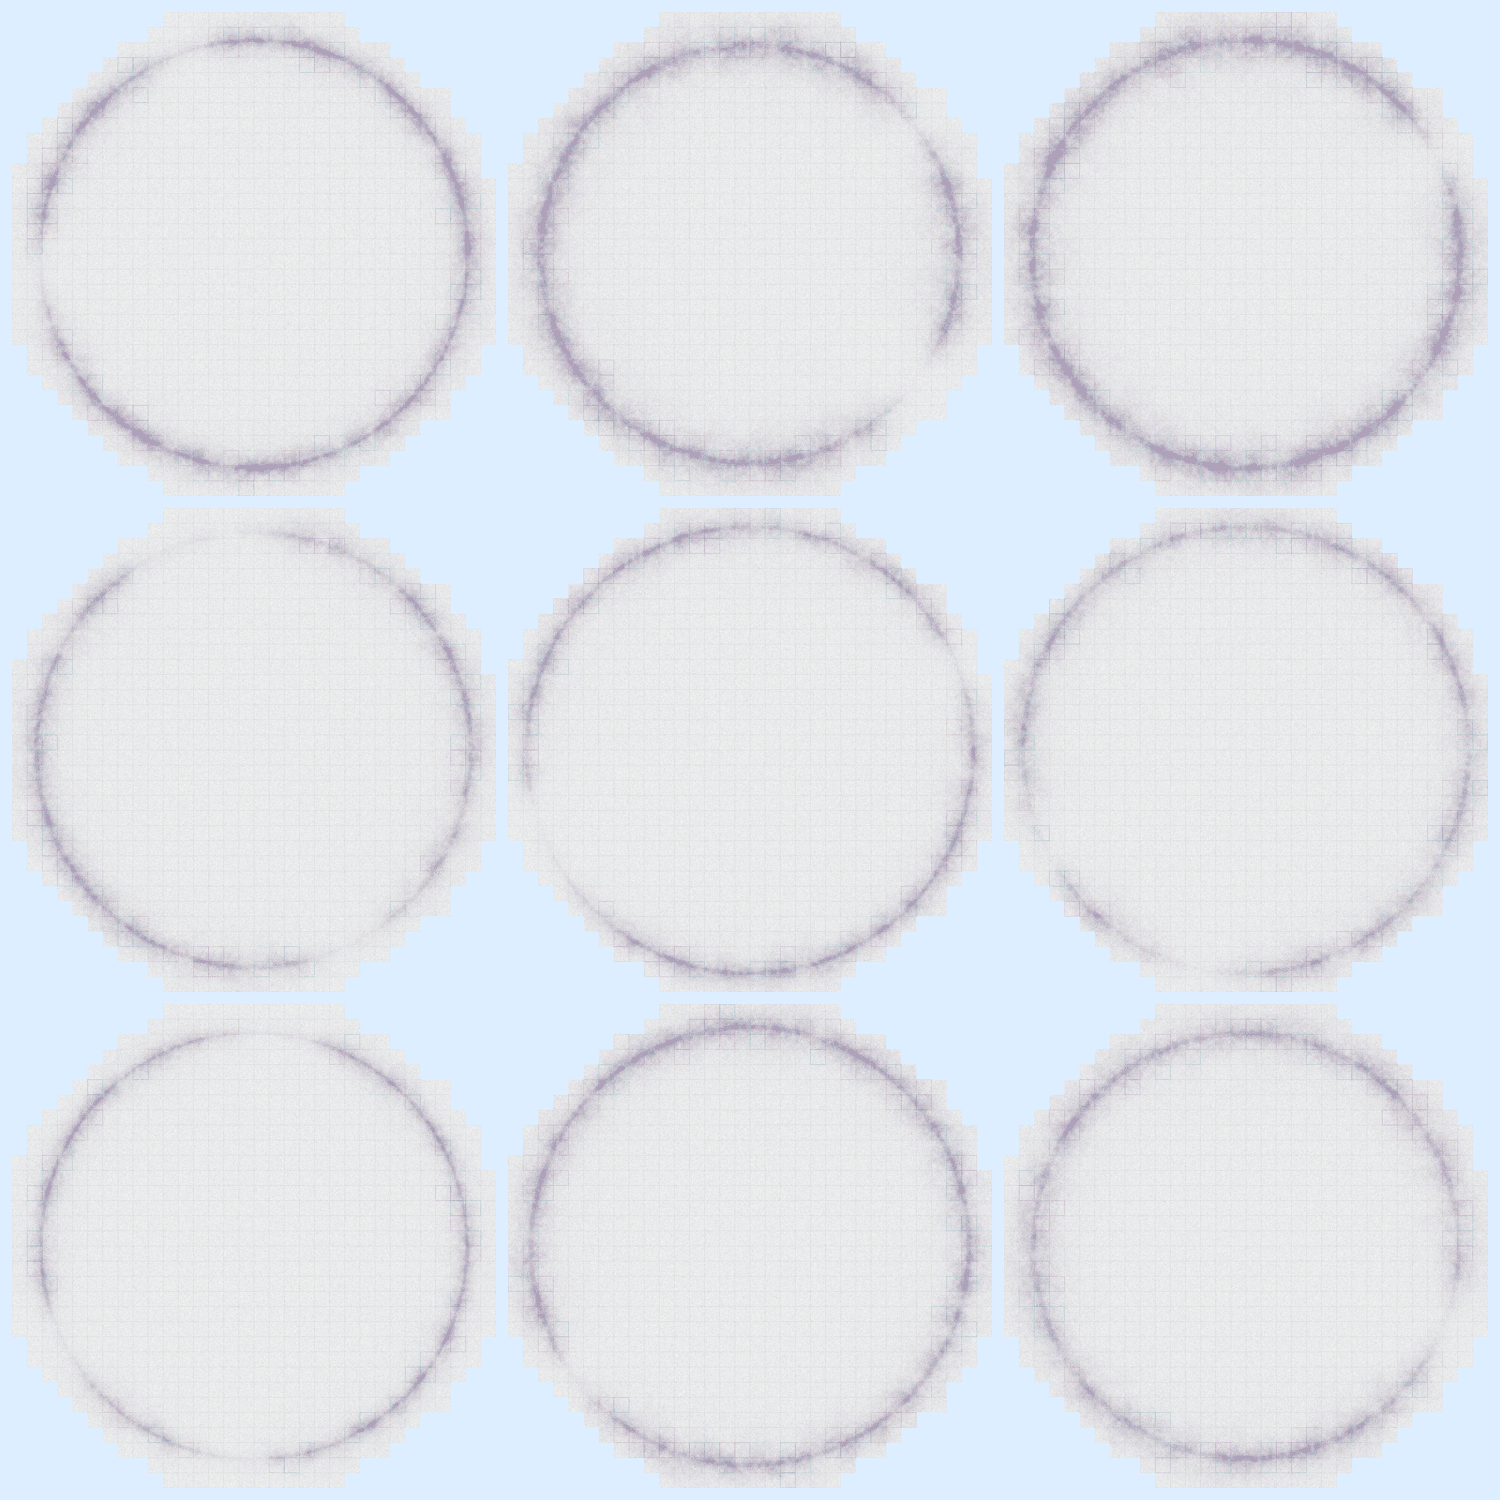
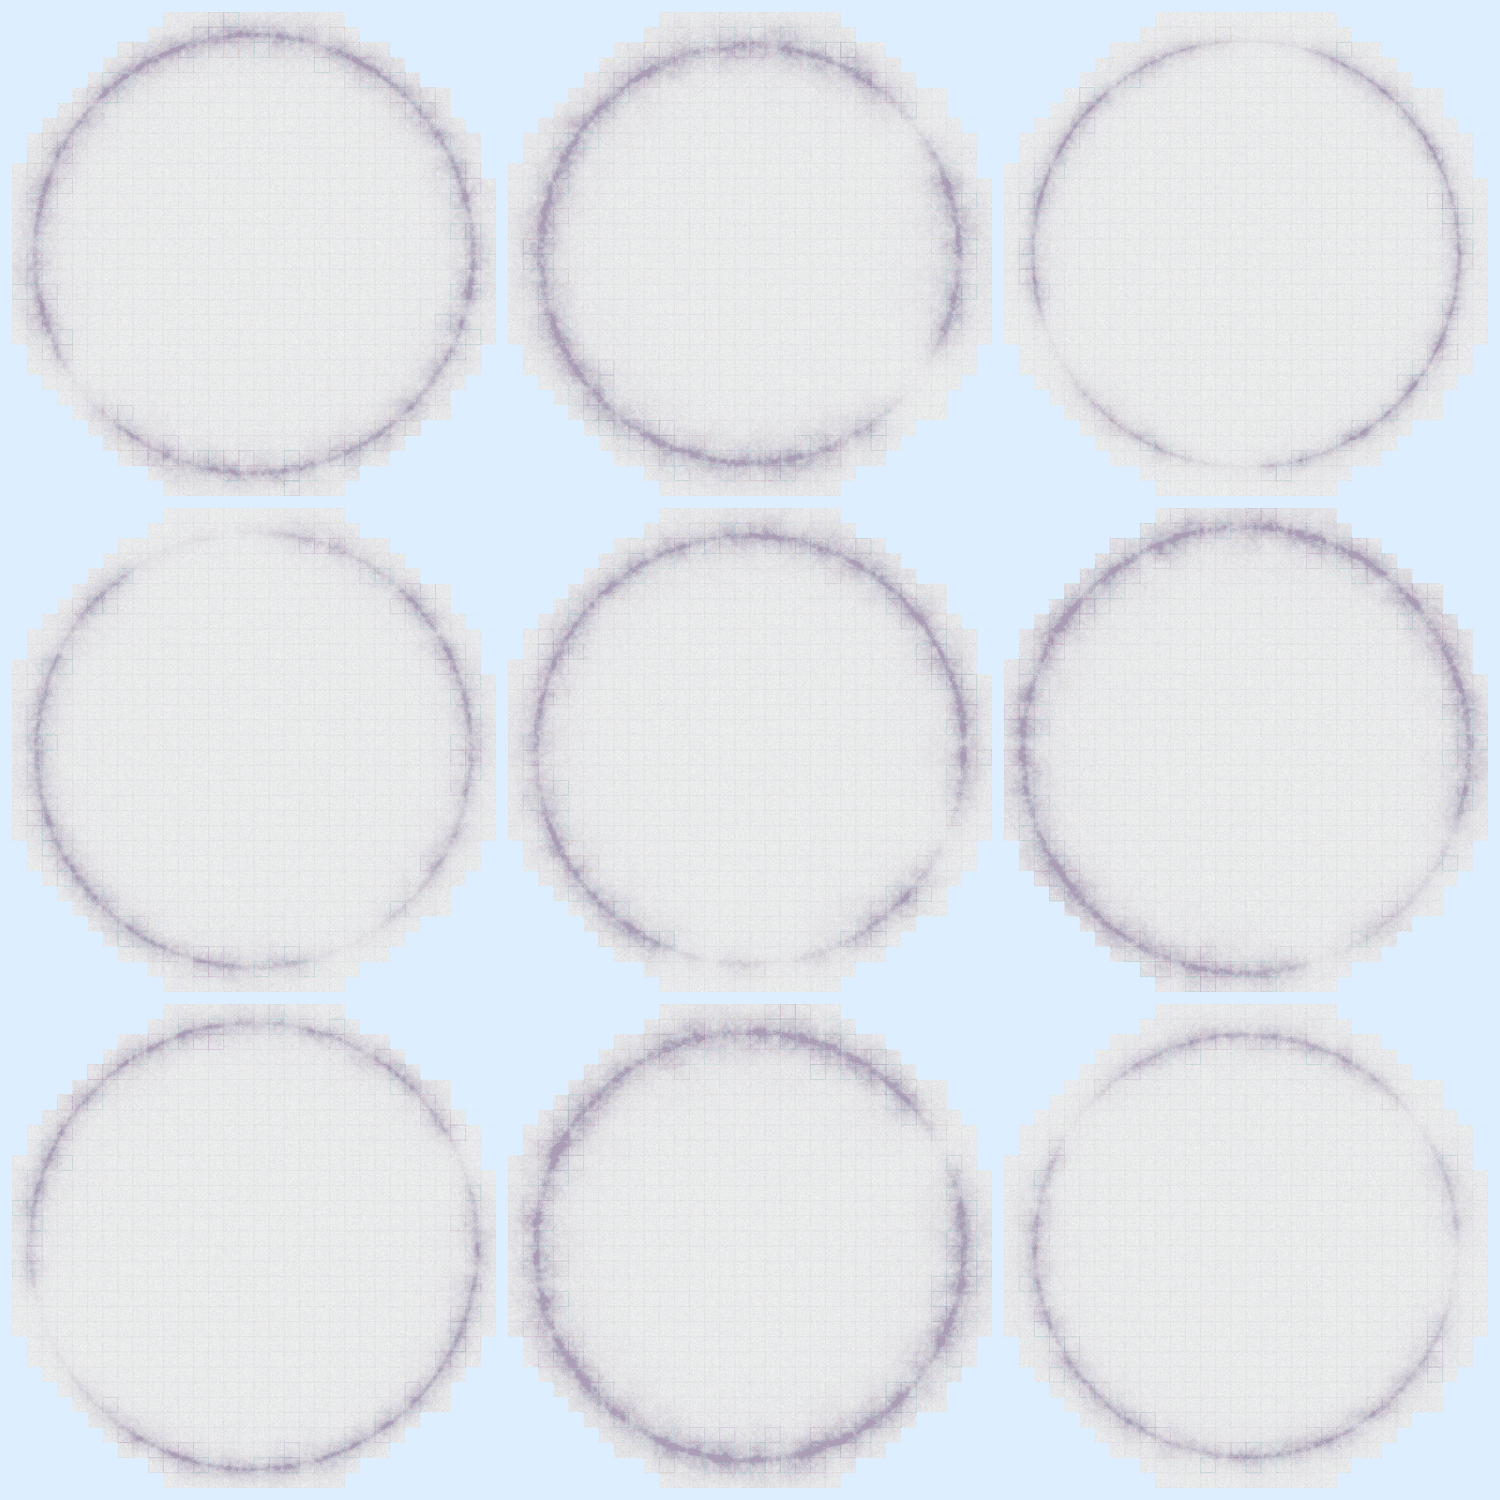
manager report: group composite — FPS sampling + ParallelScratches → Edge-Bottom_scratch_rot
- 64x64 high-freq fingerprint (mean-removed) farthest-point sampling 으로 9 wafer 다양성 max
- pair-distance: 8x8 0.0005 → 64x64 0.11 ~ 0.88 (100~1000x diversity)
- ParallelScratches cluster → Edge-Bottom_scratch_rot cluster (cluster_036, size 13)
- single wafer_02 도 같은 class 매칭

diff --git a/docs/paper/manager_report/REPORT.md b/docs/paper/manager_report/REPORT.md
@@ -68,7 +68,7 @@ wafer ──► CNN ──► 128-dim emb ──► HDBSCAN ──► group A, B
 <table>
 <tr>
 <td align="center" valign="top" width="33%"><img src="figs/wafer_01_CenterCircle.png" width="260" height="260"><br><b>CenterCircle</b><br>canvas pattern</td>
-<td align="center" valign="top" width="33%"><img src="figs/wafer_02_ParallelScratches.png" width="260" height="260"><br><b>ParallelScratches</b><br>canvas pattern</td>
+<td align="center" valign="top" width="33%"><img src="figs/wafer_02_EdgeBottom_scratch_rot.png" width="260" height="260"><br><b>Edge-Bottom_scratch_rot</b><br>site×chip object</td>
 <td align="center" valign="top" width="33%"><img src="figs/wafer_03_RingDots.png" width="260" height="260"><br><b>RingDots</b><br>canvas pattern</td>
 </tr>
 <tr>
@@ -78,7 +78,7 @@ wafer ──► CNN ──► 128-dim emb ──► HDBSCAN ──► group A, B
 </tr>
 </table>
 
-4 canvas (CenterCircle / ParallelScratches / RingDots / BrokenRing) + 2 site×chip (Center_fork / Edge-Ring_scratch). 학습 anchor = 42 defect class × 평균 30 + Normal 1000 = 2,146 wafer.
+3 canvas (CenterCircle / RingDots / BrokenRing) + 3 site×chip (Edge-Bottom_scratch_rot / Center_fork / Edge-Ring_scratch). 학습 anchor = 42 defect class × 평균 30 + Normal 1000 = 2,146 wafer.
 
 ### 합성 방식 (sister repo `known-cnn/dist_apply/_sample_gen.py`)
 
@@ -98,7 +98,7 @@ wafer ──► CNN ──► 128-dim emb ──► HDBSCAN ──► group A, B
 <table>
 <tr>
 <td align="center" valign="top" width="50%"><img src="figs/group_01_CenterCircle.png" width="380" height="380"><br><b>CenterCircle group</b><br>41 wafer 자동 묶음 (9 sample)</td>
-<td align="center" valign="top" width="50%"><img src="figs/group_02_ParallelScratches.png" width="380" height="380"><br><b>ParallelScratches group</b><br>40 wafer 자동 묶음 (9 sample)</td>
+<td align="center" valign="top" width="50%"><img src="figs/group_02_EdgeBottom_scratch_rot.png" width="380" height="380"><br><b>Edge-Bottom_scratch_rot group</b><br>13 wafer 자동 묶음 (9 sample, FPS distinct)</td>
 </tr>
 <tr>
 <td align="center" valign="top" width="50%"><img src="figs/group_03_RingDots.png" width="380" height="380"><br><b>RingDots group</b><br>27 wafer 자동 묶음 (9 sample)</td>
